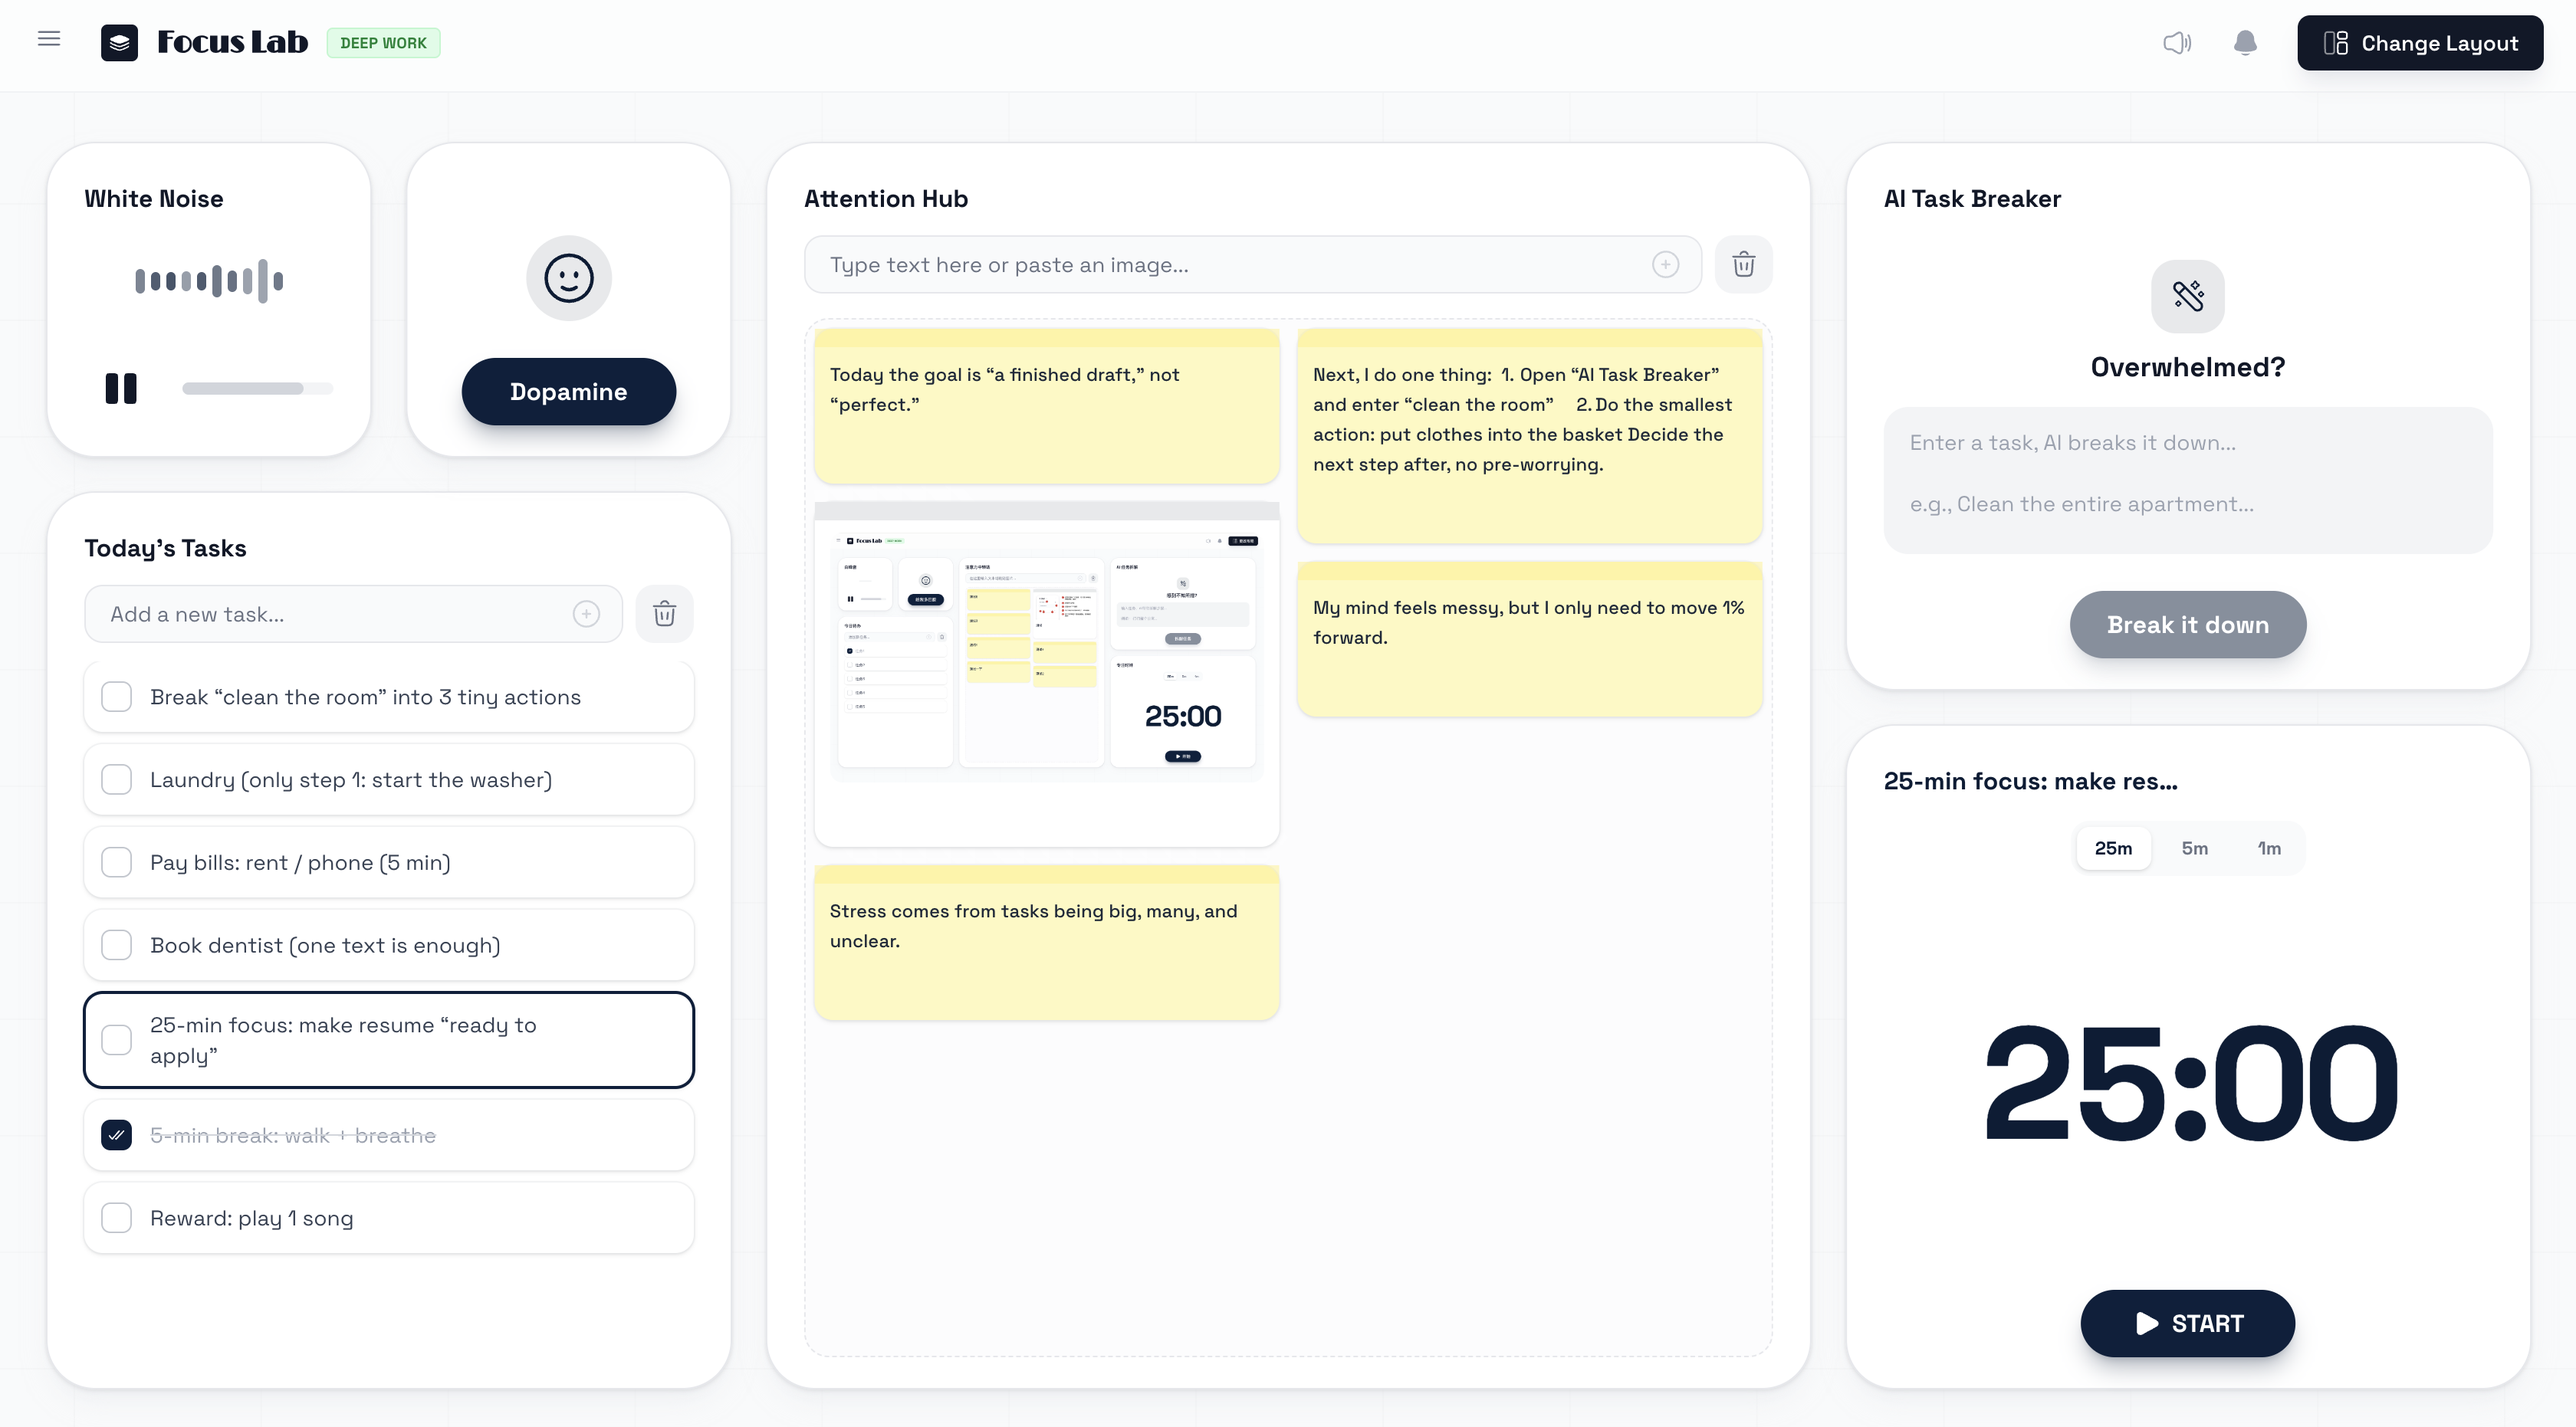
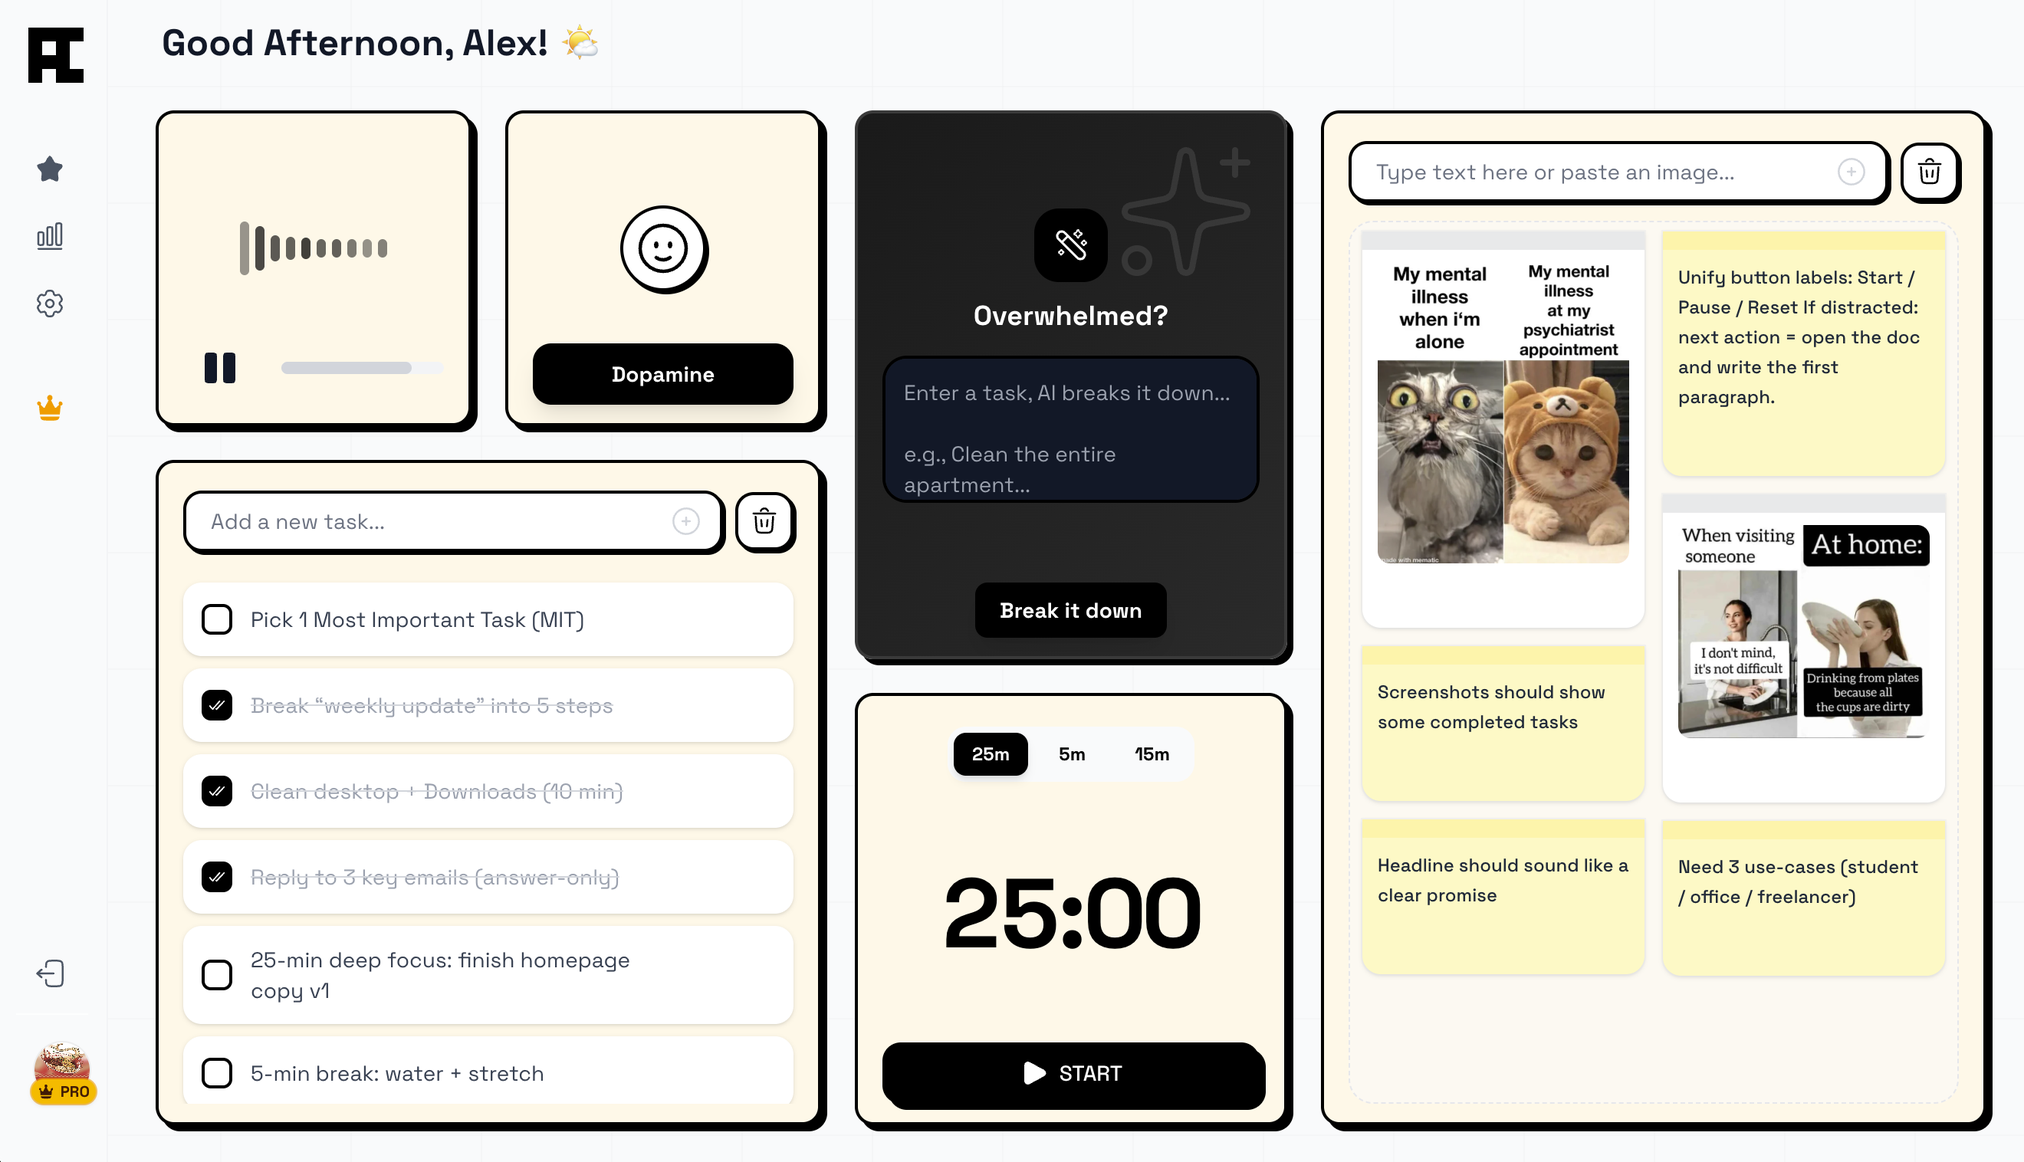
调整logo，调整卡片拖动逻辑

diff --git a/components/focus-lab/FocusLabApp.tsx b/components/focus-lab/FocusLabApp.tsx
@@ -476,8 +476,13 @@ const FocusSidebarBrand = () => {
   const { open, animate } = useSidebar()
   return (
     <div className="group/sidebar flex h-12 items-center justify-start gap-3 rounded-xl px-3 py-1">
-      <div className="flex h-9 w-9 flex-shrink-0 items-center justify-center rounded-lg bg-gray-900 text-white shadow-sm dark:bg-white dark:text-gray-900">
-        <span className="icon-[solar--layers-minimalistic-bold] text-lg" />
+      <div className="relative flex h-9 w-9 flex-shrink-0 items-center justify-center rounded-lg">
+        {/* eslint-disable-next-line @next/next/no-img-element */}
+        <img
+          src="/static/images/focuslab-logo.svg"
+          alt="FocusLab Logo"
+          className="h-full w-full dark:invert"
+        />
       </div>
       <motion.div
         animate={{
@@ -2921,7 +2926,7 @@ const SonicShieldWidget = ({
           >
             <div className="relative flex h-full w-full flex-col justify-between">
               {/* Center: Visualizer */}
-              <div className="flex flex-1 flex-col items-center justify-center">
+              <div className="flex flex-1 flex-col items-center justify-center pt-8">
                 <SoundVisualizer
                   activeCount={isGlobalPlaying && isSoundEnabled ? activeCount : 0}
                   uiStyle={uiStyle}
@@ -4229,9 +4234,12 @@ const BrainDumpWidget = ({ uiStyle }: { uiStyle?: UIStyle }) => {
       value={item}
       initial={{ opacity: 0, scale: 0.9 }}
       animate={{ opacity: 1, scale: 1 }}
-      className={`group ring-primary-100/50 dark:ring-primary-900/40 relative mb-3 break-inside-avoid rounded-t-none rounded-b-xl shadow-sm ring-1 transition-all hover:rotate-1 hover:shadow-md ${
+      className={`focuslab-no-drag group ring-primary-100/50 dark:ring-primary-900/40 relative mb-3 break-inside-avoid rounded-t-none rounded-b-xl shadow-sm ring-1 transition-all hover:rotate-1 hover:shadow-md ${
         item.image ? 'bg-white dark:bg-gray-800' : 'bg-yellow-100 dark:bg-yellow-900/30'
       } `}
+      onPointerDown={(e) => e.stopPropagation()}
+      onMouseDown={(e) => e.stopPropagation()}
+      onTouchStart={(e) => e.stopPropagation()}
     >
       {/* Header Bar (Tape/Tag look) */}
       <div
@@ -4547,9 +4555,7 @@ const DopamineMenuWidget = ({
 
             {/* List */}
             <div className="no-scrollbar min-h-0 flex-1 overflow-y-auto rounded-xl border border-dashed border-gray-200 p-2 dark:border-gray-700 [&::-webkit-scrollbar]:hidden">
-              <div
-                className={`grid gap-2 ${cols >= 3 ? 'grid-cols-1 @[420px]:grid-cols-2' : 'grid-cols-1'}`}
-              >
+              <div className="grid grid-cols-1 gap-2">
                 {options.map((opt, idx) => (
                   <div
                     key={idx}

diff --git a/components/focus-lab/FocusStation.tsx b/components/focus-lab/FocusStation.tsx
@@ -242,7 +242,7 @@ export const FocusStation = ({
               axis="y"
               values={items}
               onReorder={setItems}
-              className={`grid gap-2 ${isWide ? 'grid-cols-2' : 'grid-cols-1'}`}
+              className="grid grid-cols-1 gap-2"
             >
               <AnimatePresence initial={false} mode="popLayout">
                 {items.map((item) => (
@@ -252,7 +252,7 @@ export const FocusStation = ({
                     initial={{ opacity: 0, y: 10, scale: 0.95 }}
                     animate={{ opacity: 1, y: 0, scale: 1 }}
                     exit={{ opacity: 0, scale: 0.9, transition: { duration: 0.2 } }}
-                    className={`group relative flex cursor-pointer items-center gap-3 rounded-xl bg-white p-2.5 shadow-sm transition-all hover:shadow-md dark:bg-gray-900/40 ${
+                    className={`focuslab-no-drag group relative flex cursor-pointer items-center gap-3 rounded-xl bg-white p-2.5 shadow-sm transition-all hover:shadow-md dark:bg-gray-900/40 ${
                       focusedTaskId === item.id
                         ? isWarm
                           ? 'border border-[#C27B4A] bg-[#F5F2EC] ring-1 ring-[#C27B4A]'
@@ -268,6 +268,9 @@ export const FocusStation = ({
                           : 'ring-primary-100/50 hover:border-primary-200 dark:ring-primary-900/30 border border-transparent ring-1'
                     }`}
                     onClick={() => toggleItem(item.id)}
+                    onPointerDown={(e) => e.stopPropagation()}
+                    onMouseDown={(e) => e.stopPropagation()}
+                    onTouchStart={(e) => e.stopPropagation()}
                   >
                     {/* Checkbox (Click toggle) */}
                     <button

diff --git a/data/siteMetadata.js b/data/siteMetadata.js
@@ -9,7 +9,7 @@ const siteMetadata = {
   theme: 'light', // system, dark or light
   siteUrl: 'https://neurohackslab.com', // 你的域名
   siteRepo: 'https://github.com/yellowpeppers/neurohacks-lab',
-  siteLogo: '/static/images/logo.svg', // 响应深浅色的徽标
+  siteLogo: '/static/images/focuslab-logo.svg', // 响应深浅色的徽标
   socialBanner: '/static/images/twitter-card.png',
   mastodon: '',
   email: 'contact@neurohackslab.com',
